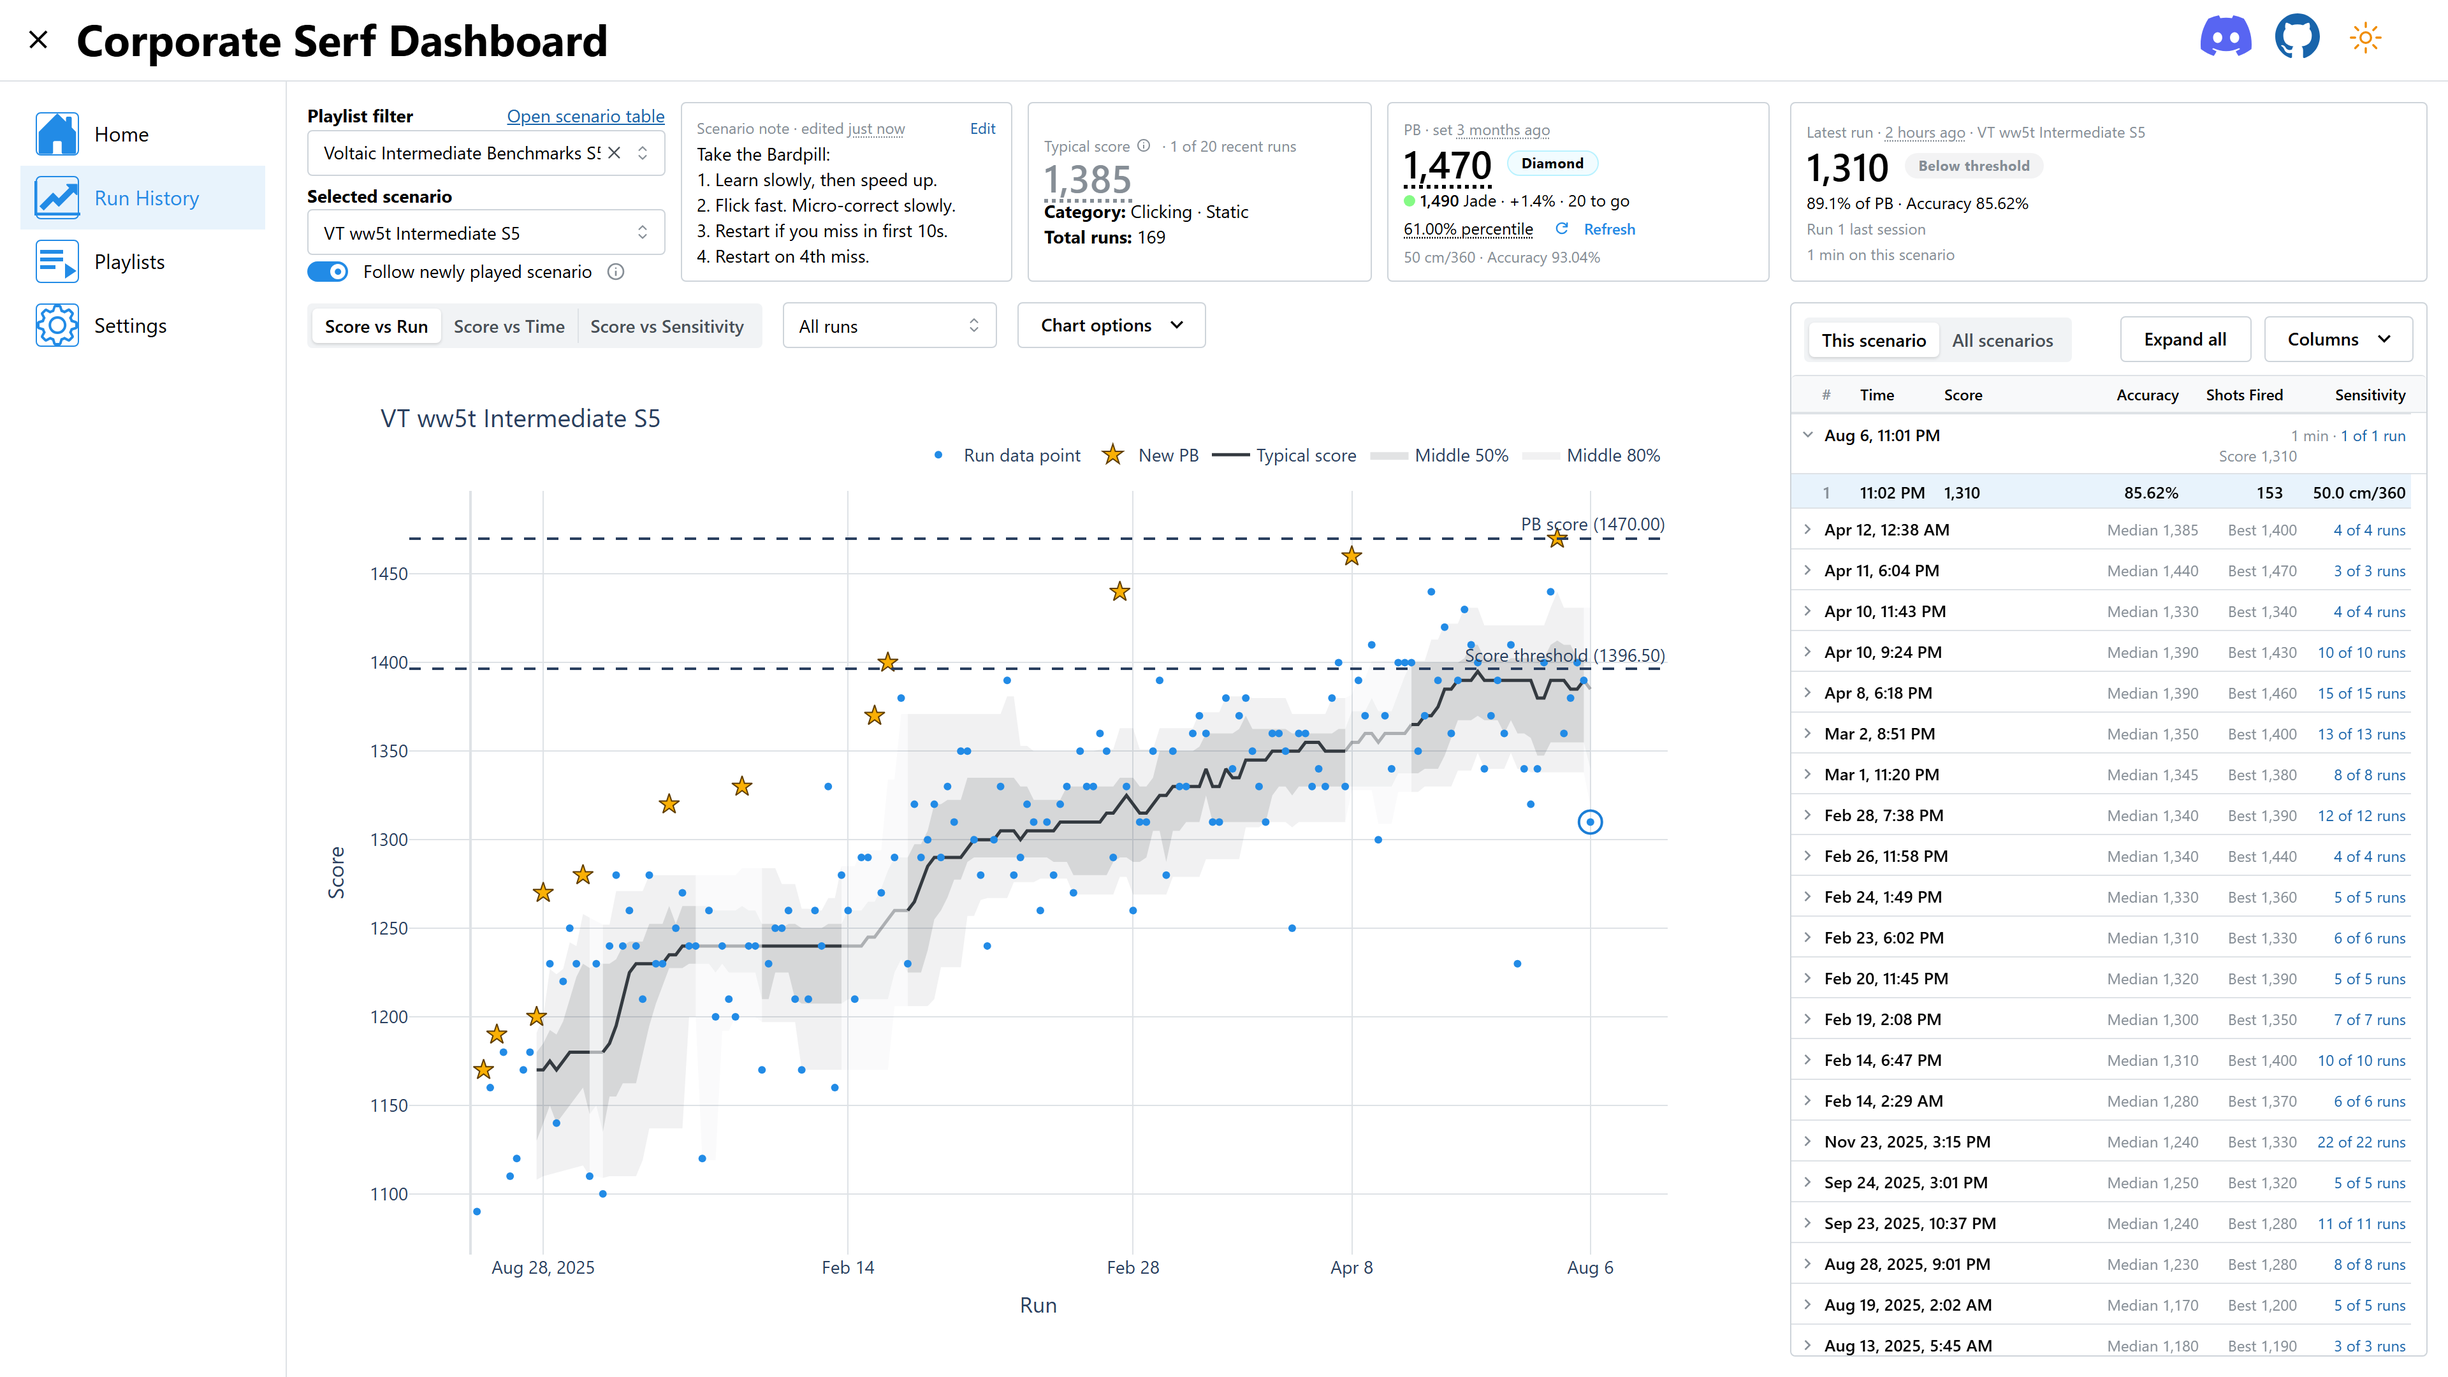
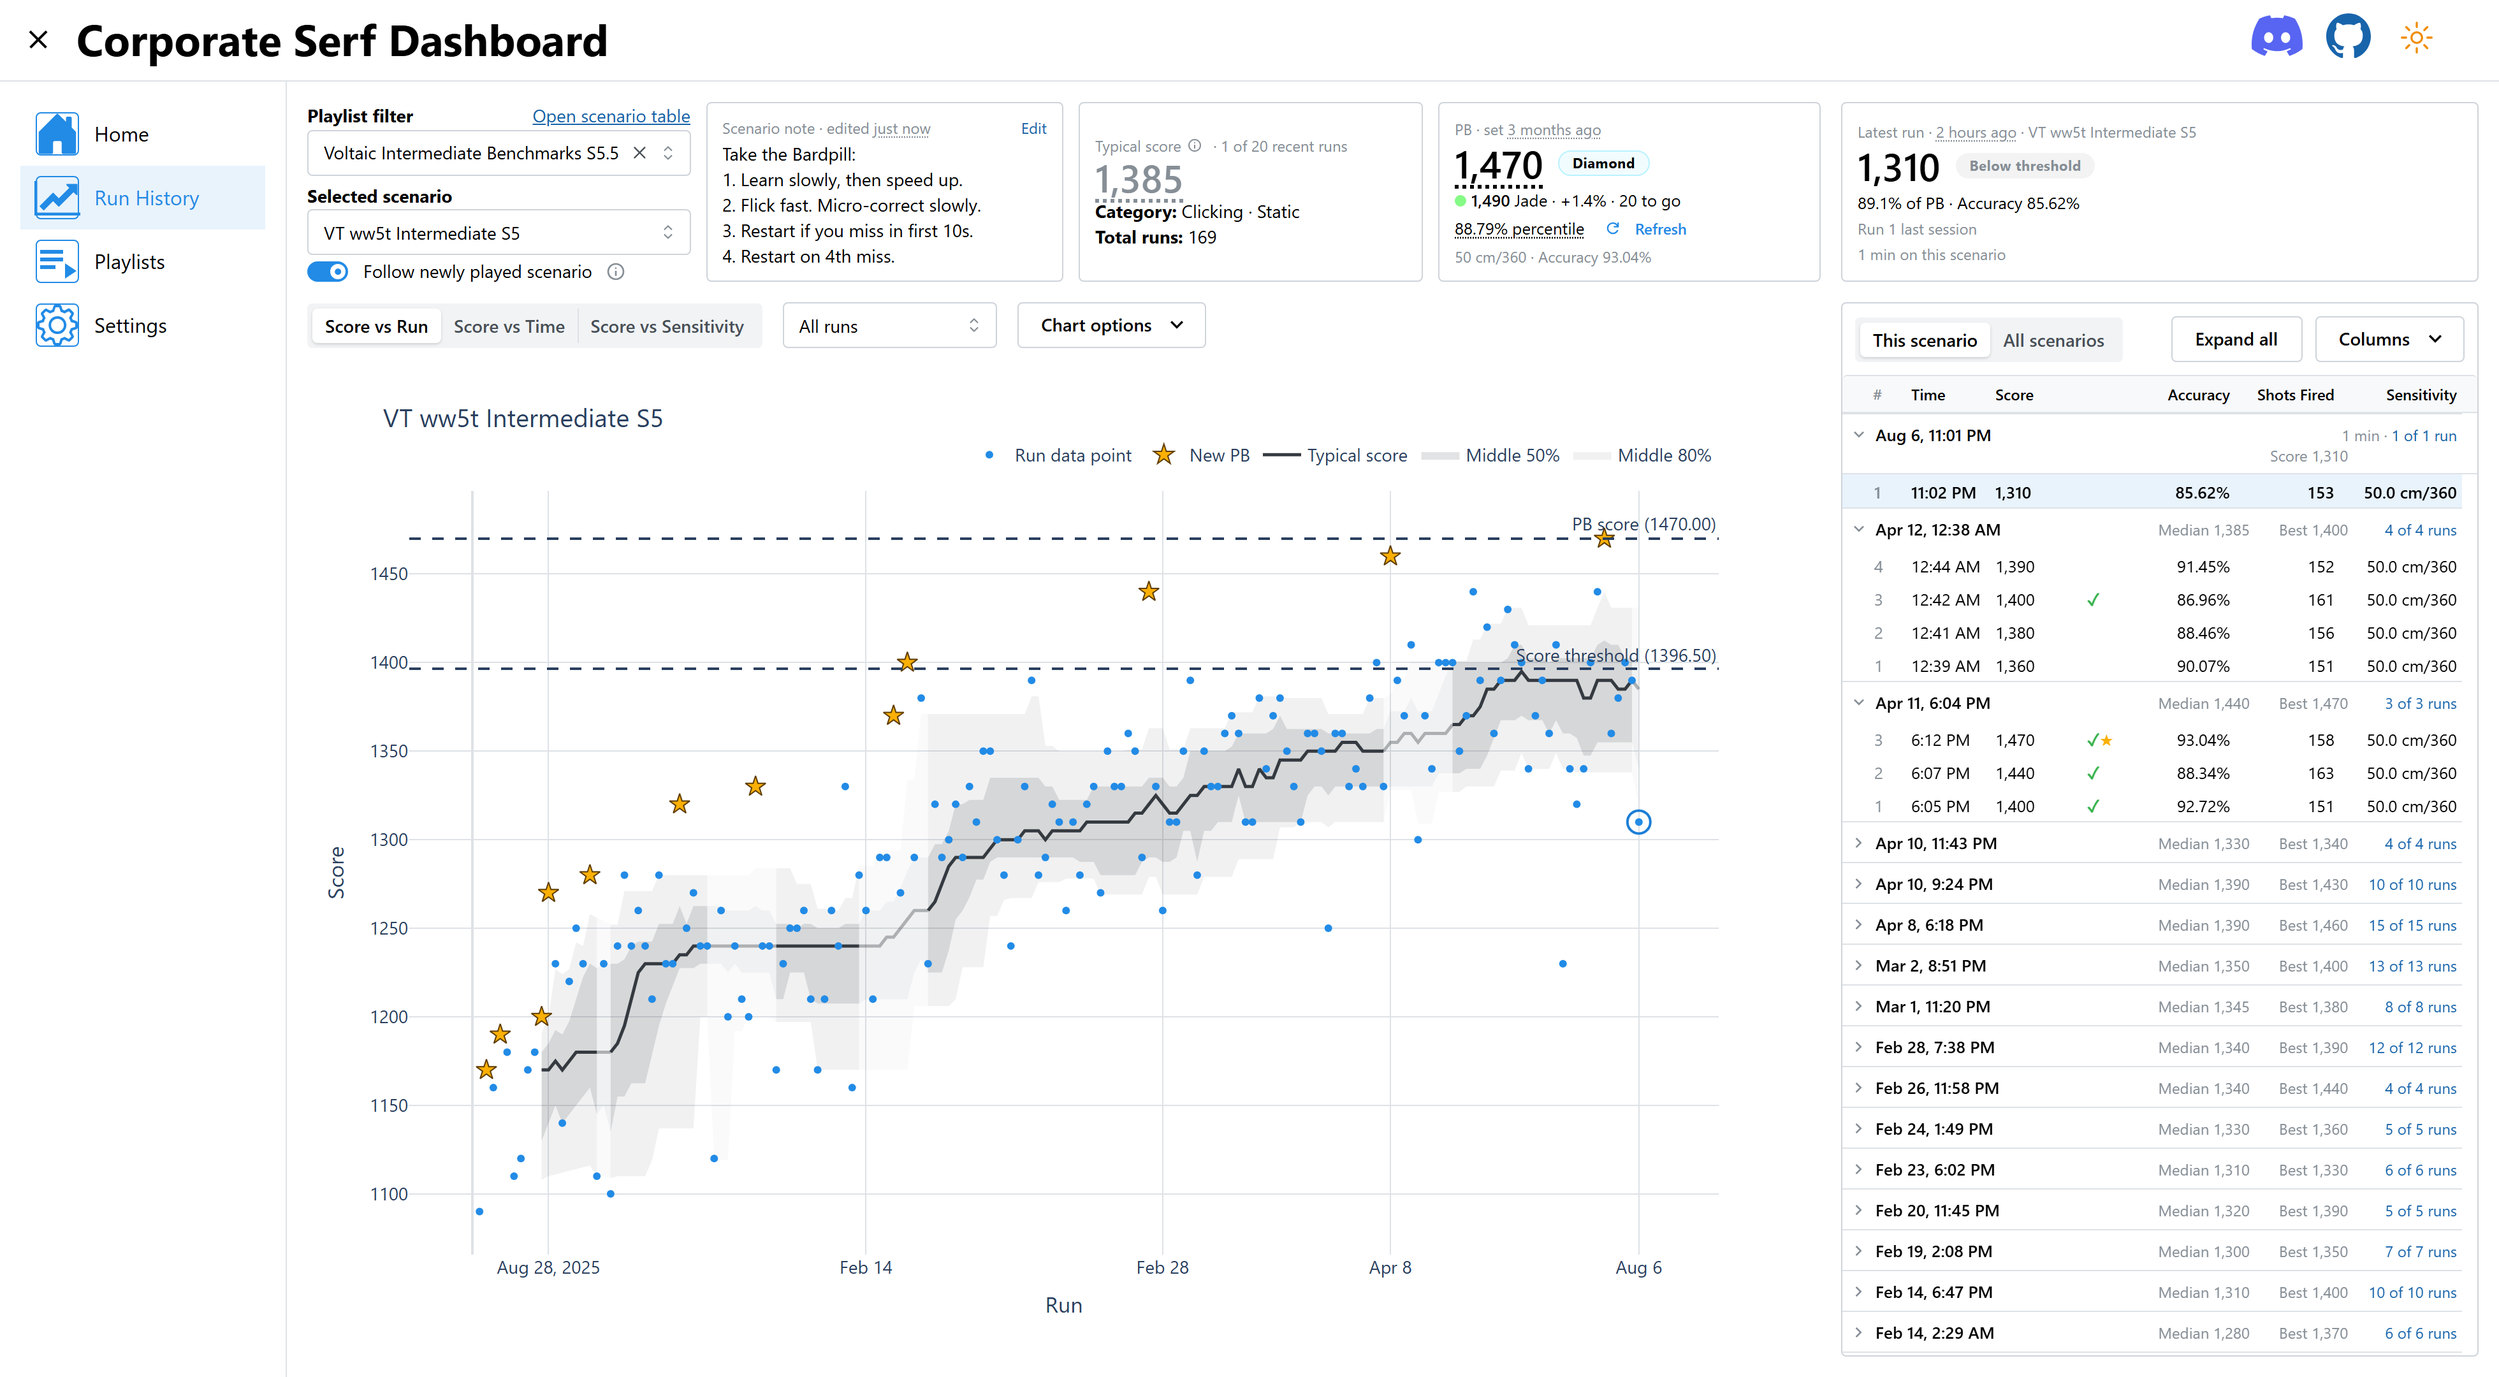
docs: crop table screenshots and show April run markers

diff --git a/scripts/capture_screenshots.py b/scripts/capture_screenshots.py
@@ -68,7 +68,7 @@ INTERMEDIATE_PERCENTILES = (
     76,
     68,
     71,
-    61,
+    88.79,
     54,
     89,
     84,
@@ -368,7 +368,7 @@ def capture(origin: str, destination: Path) -> None:
     with sync_playwright() as playwright:
         browser = playwright.chromium.launch()
         context = browser.new_context(
-            viewport={"width": 1920, "height": 1080},
+            viewport={"width": 1960, "height": 1080},
             device_scale_factor=2,
             locale="en-US",
             timezone_id="UTC",
@@ -429,6 +429,20 @@ def capture(origin: str, destination: Path) -> None:
                 .filter(has_text=label)
                 .first
             ).to_be_visible()
+        for date in ("Apr 12,", "Apr 11,"):
+            session = page.locator("#run-history-list-grid .ag-row").filter(
+                has_text=date
+            )
+            toggle = session.get_by_role("button", name="Session", exact=True)
+            toggle.click()
+            expect(toggle).to_have_attribute("aria-expanded", "true")
+        for mark in (".run-list-check", ".run-list-star"):
+            expect(
+                page.locator(
+                    f"#run-history-list-grid .ag-center-cols-container {mark}"
+                ).first
+            ).to_be_in_viewport(ratio=1)
+        expect(page.get_by_text("88.79% percentile", exact=True)).to_be_visible()
         page.get_by_text("Score vs Run", exact=True).click()
         page.locator("#run-history-run-range").click()
         page.get_by_role("option", name="All runs", exact=True).click()
@@ -438,7 +452,7 @@ def capture(origin: str, destination: Path) -> None:
         page.get_by_role("button", name="Chart options", exact=True).click()
         # Plotly can retain the inspector's narrower canvas after it closes.
         # A normal viewport resize retriggers its responsive layout.
-        for width in (1919, 1920):
+        for width in (1959, 1960):
             page.set_viewport_size({"width": width, "height": 1080})
             page.wait_for_function("""() => {
                 const graph = document.querySelector('#run-history-graph .js-plotly-plot');
@@ -505,10 +519,12 @@ def capture(origin: str, destination: Path) -> None:
             page.mouse.move(0, 0)
             page.evaluate("document.fonts.ready")
             rows = page.locator(f"#{grid} .ag-center-cols-container .ag-row")
-            # Keep the selected benchmark whole so no merged category label
-            # ends at an arbitrary row cutoff. Let normal viewport sizing
-            # reveal its rows, without changing the production grid layout.
-            last_row = rows.last.bounding_box()
+            # End the excerpt after Clicking so its merged category labels
+            # stay whole while the README preview remains short.
+            last_row_locator = (
+                rows.nth(6) if grid == "playlist-scenarios-grid" else rows.last
+            )
+            last_row = last_row_locator.bounding_box()
             assert last_row
             viewport = page.viewport_size
             assert viewport
@@ -520,20 +536,26 @@ def capture(origin: str, destination: Path) -> None:
                     ),
                 }
             )
-            expect(rows.last).to_be_in_viewport(ratio=1)
+            expect(last_row_locator).to_be_in_viewport(ratio=1)
             if grid == "playlist-scenarios-grid":
                 expect(
                     page.get_by_role("link", name=SCENARIO, exact=True)
                 ).to_be_visible()
             main_box = page.locator("main").bounding_box()
-            last_row = rows.last.bounding_box()
-            assert main_box and last_row
+            last_row = last_row_locator.bounding_box()
+            banner = page.get_by_role("banner").bounding_box()
+            assert main_box and last_row and banner
+            top = math.ceil(banner["y"] + banner["height"])
             save_stable_screenshot(
                 page,
                 destination / filename,
                 clip={
                     **main_box,
-                    "height": last_row["y"] + last_row["height"] - main_box["y"] + 16,
+                    "y": top,
+                    "height": last_row["y"]
+                    + last_row["height"]
+                    - top
+                    + (0 if grid == "playlist-scenarios-grid" else 16),
                 },
             )
         browser.close()

diff --git a/tests/test_capture_screenshots.py b/tests/test_capture_screenshots.py
@@ -4,6 +4,7 @@ from collections import Counter
 from datetime import datetime, timedelta
 
 from scripts import capture_screenshots
+from source.kovaaks.api_service import calculate_percentile
 from source.kovaaks.data_service import extract_data_from_file
 from source.kovaaks.play_sessions import split_into_play_sessions
 from source.kovaaks.typical_score import (
@@ -29,7 +30,12 @@ def test_sample_history_uses_valid_runs_and_matching_leaderboard_scores(tmp_path
         local_runs = [run for run in runs if run.scenario == sample["name"]]
         assert max(run.score for run in local_runs) == sample["score"]
         assert 0 < sample["rank"] <= sample["total"]
-        if sample["name"] != capture_screenshots.SCENARIO:
+        if sample["name"] == capture_screenshots.SCENARIO:
+            assert (
+                f"{calculate_percentile(sample['rank'], sample['total']):.2f}"
+                == "88.79"
+            )
+        else:
             assert all(run.run_length.total_seconds() == 60 for run in local_runs)
     featured = sorted(
         [run for run in runs if run.scenario == capture_screenshots.SCENARIO],

diff --git a/docs/screenshots/README.md b/docs/screenshots/README.md
@@ -2,7 +2,8 @@
 
 The three PNGs show the real app with curated documentation data. Run History
 uses a maintainer-approved, sanitized snapshot of real ww5t history. Other
-scenario histories and all leaderboard positions and percentiles are synthetic.
+scenario histories and leaderboard positions and totals are synthetic. The
+ww5t percentile is the maintainer-provided 88.79%; other percentiles are synthetic.
 
 ## Screenshot stories
 
@@ -13,18 +14,19 @@ scenario table and the ww5t history.
 
 | Image | Story | Data and framing |
 | --- | --- | --- |
-| `run_history.png` | Separate usual performance from individual results, across practice and long breaks. | Real ww5t history in Score vs Run with All runs: 169 runs across 24 sessions, from August 2025 to August 2026. Preserve the uneven progress and actual gaps. Typical score support is faded after long breaks, including the latest point. Select Median and best for session summaries. Keep the useful Bardpill technique note and one session expanded. Show PB and score-threshold lines, with rank overlays off so the trend remains prominent. |
-| `playlists.png` | Compare coverage and standing to choose a benchmark to work on. | A completed novice benchmark, an active intermediate benchmark, and partially explored advanced and Viscose benchmarks. Vary run counts, activity dates, medians and weakest percentiles. Keep navigation visible and fit every column. |
-| `playlist_scenarios.png` | Identify weaknesses and achievable next targets. | Show the same Voltaic Intermediate benchmark, including ww5t's real 1470 PB, twenty points below Jade. Mix ranks and synthetic percentiles, with both strengths and weaknesses and several small gaps to the next rank. Include the whole benchmark so every category is visible and no merged group ends at a crop. Collapse navigation and fit every default column. |
+| `run_history.png` | Separate usual performance from individual results, across practice and long breaks. | Real ww5t history in Score vs Run with All runs: 169 runs across 24 sessions, from August 2025 to August 2026. Preserve the uneven progress and actual gaps. Typical score support is faded after long breaks, including the latest point. Select Median and best for session summaries. Keep the useful Bardpill technique note. Expand the latest session and the April 12 and April 11 sessions. Show run-level green checks for meeting the threshold and a star for a new PB. Show PB and score-threshold lines, with rank overlays off so the trend remains prominent. |
+| `playlists.png` | Compare coverage and standing to choose a benchmark to work on. | A completed novice benchmark, an active intermediate benchmark, and partially explored advanced and Viscose benchmarks. Vary run counts, activity dates, medians and weakest percentiles. Keep navigation visible, crop out the app banner and fit every column. |
+| `playlist_scenarios.png` | Identify weaknesses and achievable next targets. | Show the same Voltaic Intermediate benchmark, including ww5t's real 1470 PB, twenty points below Jade. Show its 88.79% percentile beside varied illustrative standings. Crop to the complete seven-row Clicking category so the image itself stays short and merged labels remain whole. Include Typical Score, Typical Rank and every other default column. Collapse navigation and crop out the app banner. |
 
 Run History is the only full-width image in the README. The two tables appear
 as compact, linked previews side by side; full-resolution viewing supplies
 their dense detail without making the front page a wall of screenshots.
 
 The histories and cached leaderboard values share the same PB scores across
-views. Synthetic standings illustrate comparison, rather than the player's
-actual leaderboard position. The app supplies the real parser, components,
-statistics and controls.
+views. ww5t uses the maintainer-provided 88.79% percentile; its illustrative
+position and player total are chosen to reproduce that displayed value. Other
+standings illustrate comparison rather than actual leaderboard positions. The
+app supplies the real parser, components, statistics and controls.
 
 ### Data provenance
 
@@ -52,7 +54,7 @@ Take the Bardpill:
 4. Restart on 4th miss.
 ```
 
-The note uses the app's normal card. At the selected 1920 by 1080 viewport,
+The note uses the app's normal card. At the selected 1960 by 1080 viewport,
 five complete rendered lines fit, including the title; wrapped text consumes
 another line. Keep each point short enough to fit on one line. Capture checks
 that the entire note fits without scrolling. Do not enlarge or restyle the
@@ -142,9 +144,13 @@ caches and stats are never read or changed.
 The sample clock is fixed to August 7, 2026, at 01:02:02, two hours after the
 last snapshot run. Python uses these recorded wall-clock values; the browser
 uses UTC for repeatability. Chromium uses English, a light theme and a fresh
-browser context. Captures use a 2× device scale. Run History shows VT ww5t
-Intermediate S5 at 1920 by 1080 in Score vs Run with All runs selected and
-Median and best session summaries. Its history includes long breaks, so the
+browser context at 100% zoom. Captures use a 2× device scale for sharper pixels;
+this does not enlarge the app's CSS text or controls. Run History shows VT ww5t
+Intermediate S5 at 1960 by 1080 in Score vs Run with All runs selected and
+Median and best session summaries. The slightly wider frame gives the playlist
+field enough room for its full selected name at normal font size. The latest
+session and the April 12 and April 11 sessions are expanded, with actual green
+checks and a new-PB star in view. Its history includes long breaks, so the
 Typical score line and bands visibly change between full-strength and faded
 support.
 
@@ -154,8 +160,11 @@ fonts, then auto-sizes columns through the normal header controls. It measures
 the width of every displayed column and any visible navigation, expands the
 viewport to include them plus page padding, and checks that the table has no
 horizontal overflow. This includes new default columns added by later changes.
-Table images are cropped to their headings, headers and all sample rows.
-The viewport grows vertically to include the selected benchmark whole.
+Both table crops start below the app banner. Playlists includes all four
+profiles and the visible navigation. The scenario table ends exactly after
+the seventh row, at the complete Clicking category boundary, with no sliver
+of the next category. All 21 scenarios remain in the sample dataset; the PNG
+is a compact excerpt rather than the entire benchmark.
 
 The script ignores the first load's known Dash Pages race, then attaches error
 listeners before reloading so failures during the clean reload are captured.

diff --git a/README.md b/README.md
@@ -10,7 +10,7 @@ The name of this app is in honor of [Corporate Serf](https://www.youtube.com/wat
 [![Run History showing ww5t progress, typical score bands and session runs](docs/screenshots/run_history.png)](docs/screenshots/run_history.png)
 
 Track your usual score across sessions, with individual runs and PBs for context.
-Run History uses sanitized real ww5t history. Other scenarios and leaderboard values
+Run History uses sanitized real ww5t history. Other scenarios and leaderboard counts
 are sample data. Open an image for full-resolution detail.
 
 ## Features
@@ -45,8 +45,8 @@ See what's next in
 <p>Compare benchmark coverage and standing to decide where to focus.</p>
 </td>
 <td width="50%" valign="top">
-<a href="docs/screenshots/playlist_scenarios.png"><img src="docs/screenshots/playlist_scenarios.png" width="360" alt="Voltaic Intermediate scenarios showing strengths, weaknesses and next-rank targets"></a>
-<p>Find weaker scenarios and see how close each is to its next rank.</p>
+<a href="docs/screenshots/playlist_scenarios.png"><img src="docs/screenshots/playlist_scenarios.png" width="360" alt="Clicking scenario excerpt showing typical scores, PBs and next-rank targets"></a>
+<p>Compare typical scores and PBs to choose your next target.</p>
 </td>
 </tr>
 </table>
